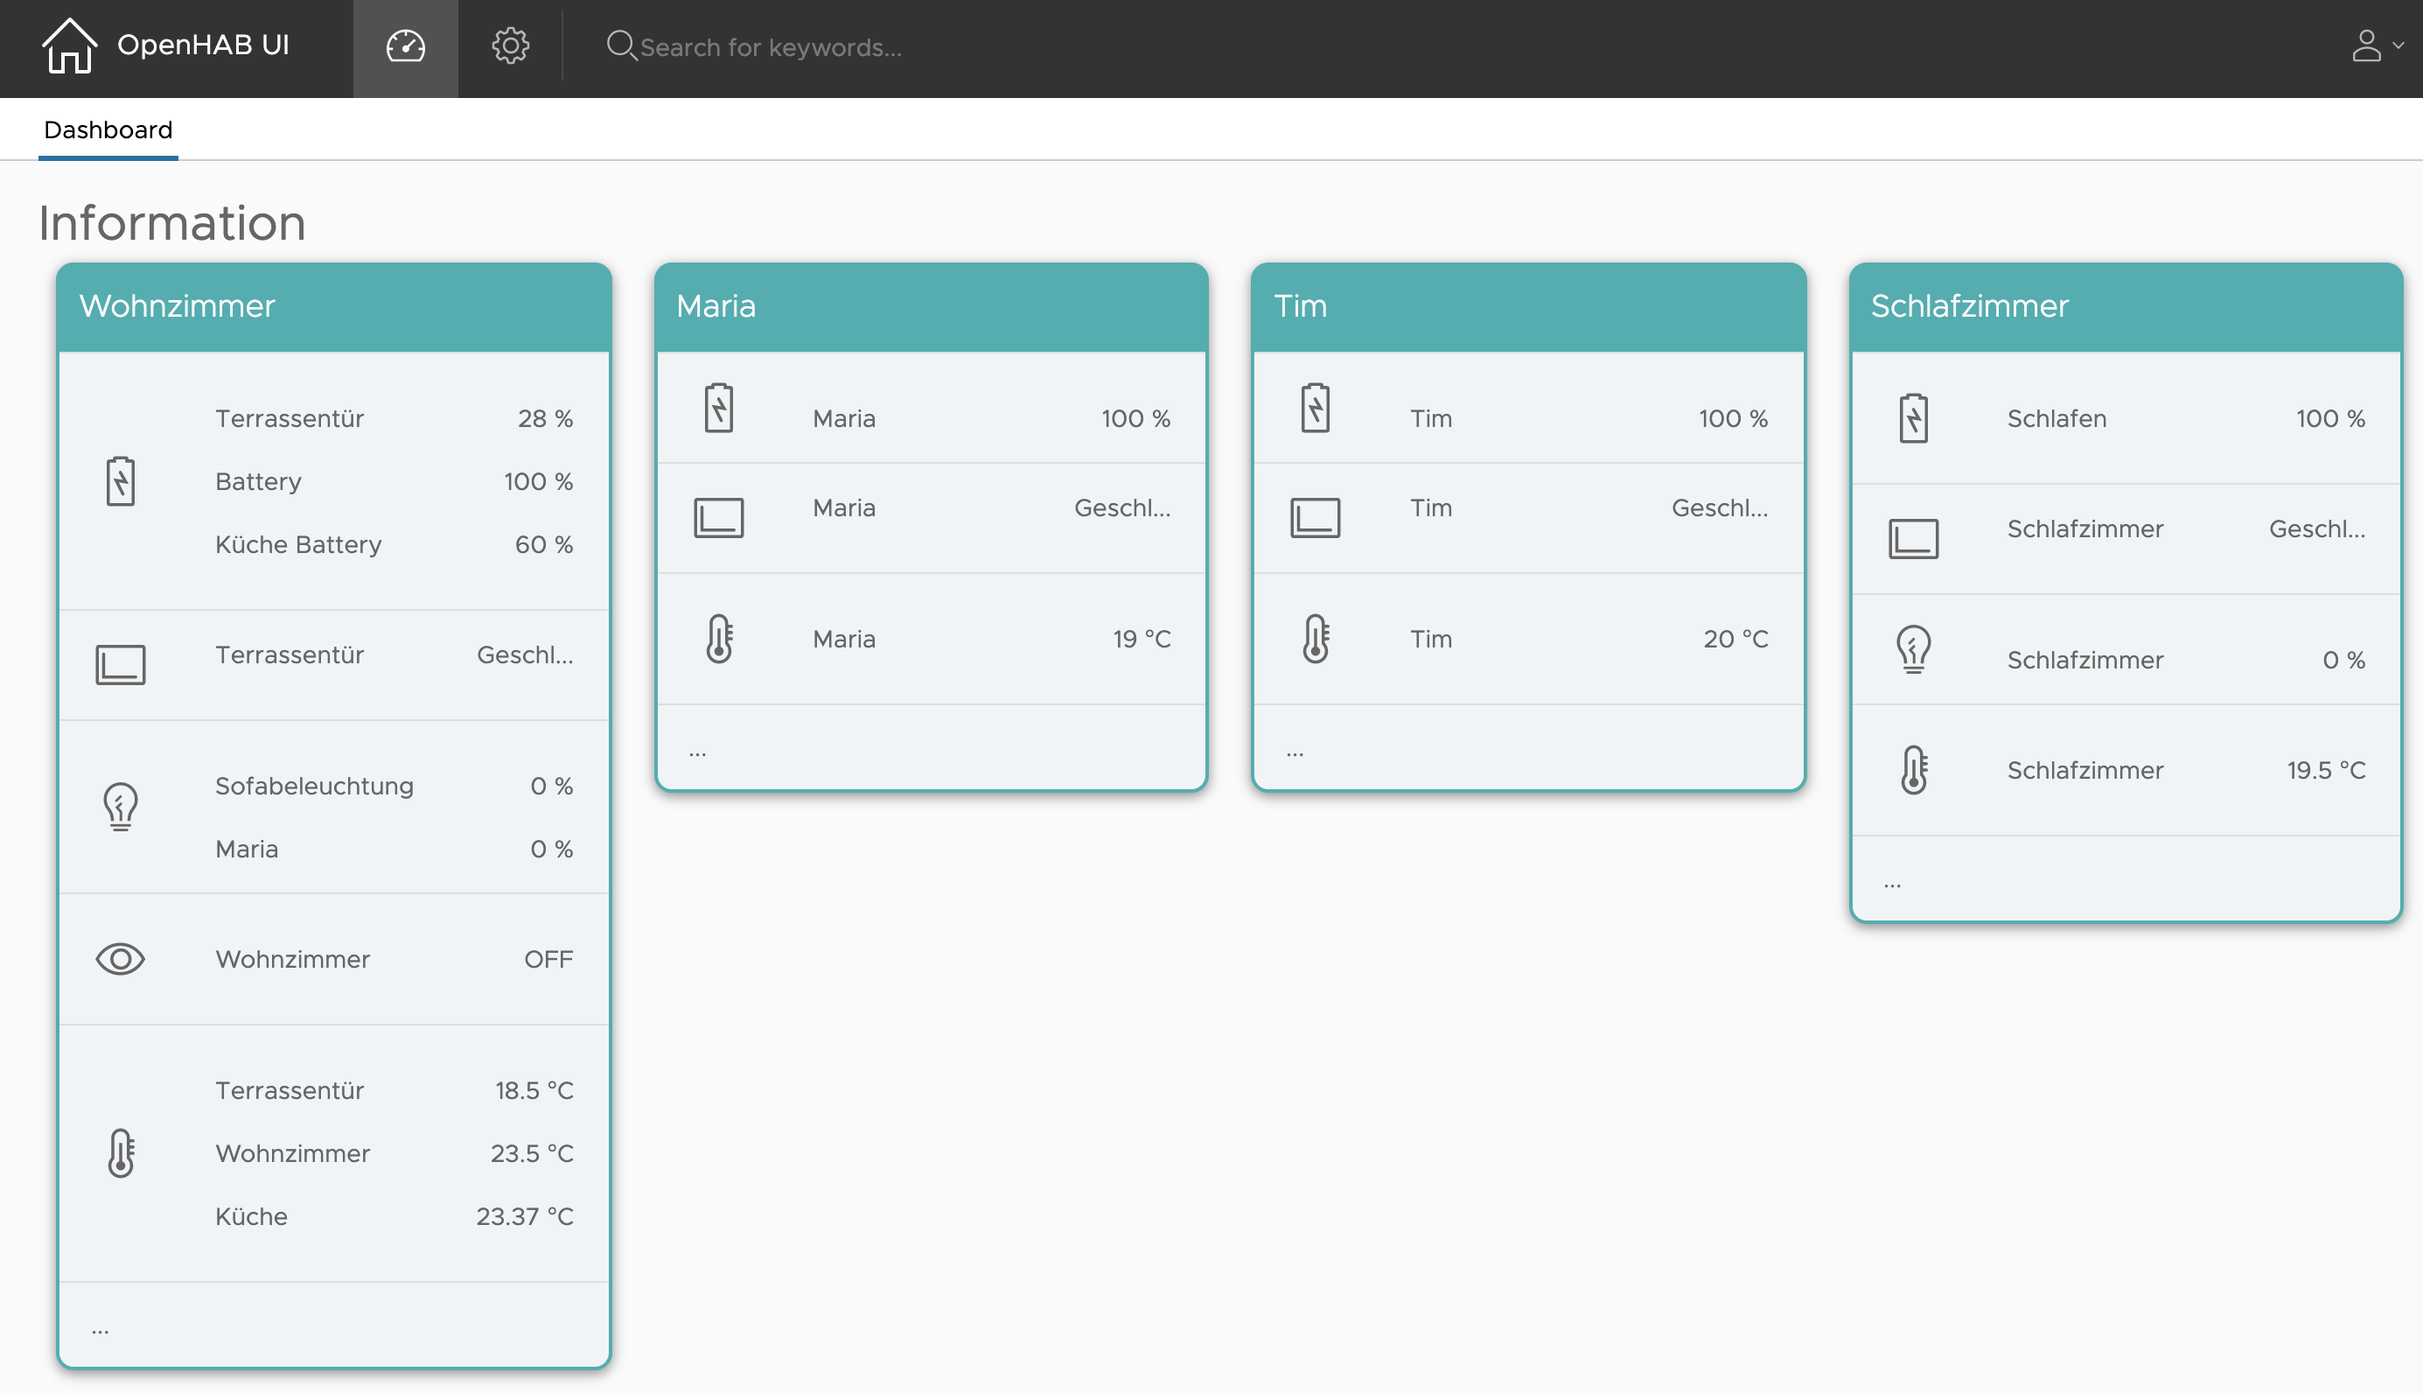
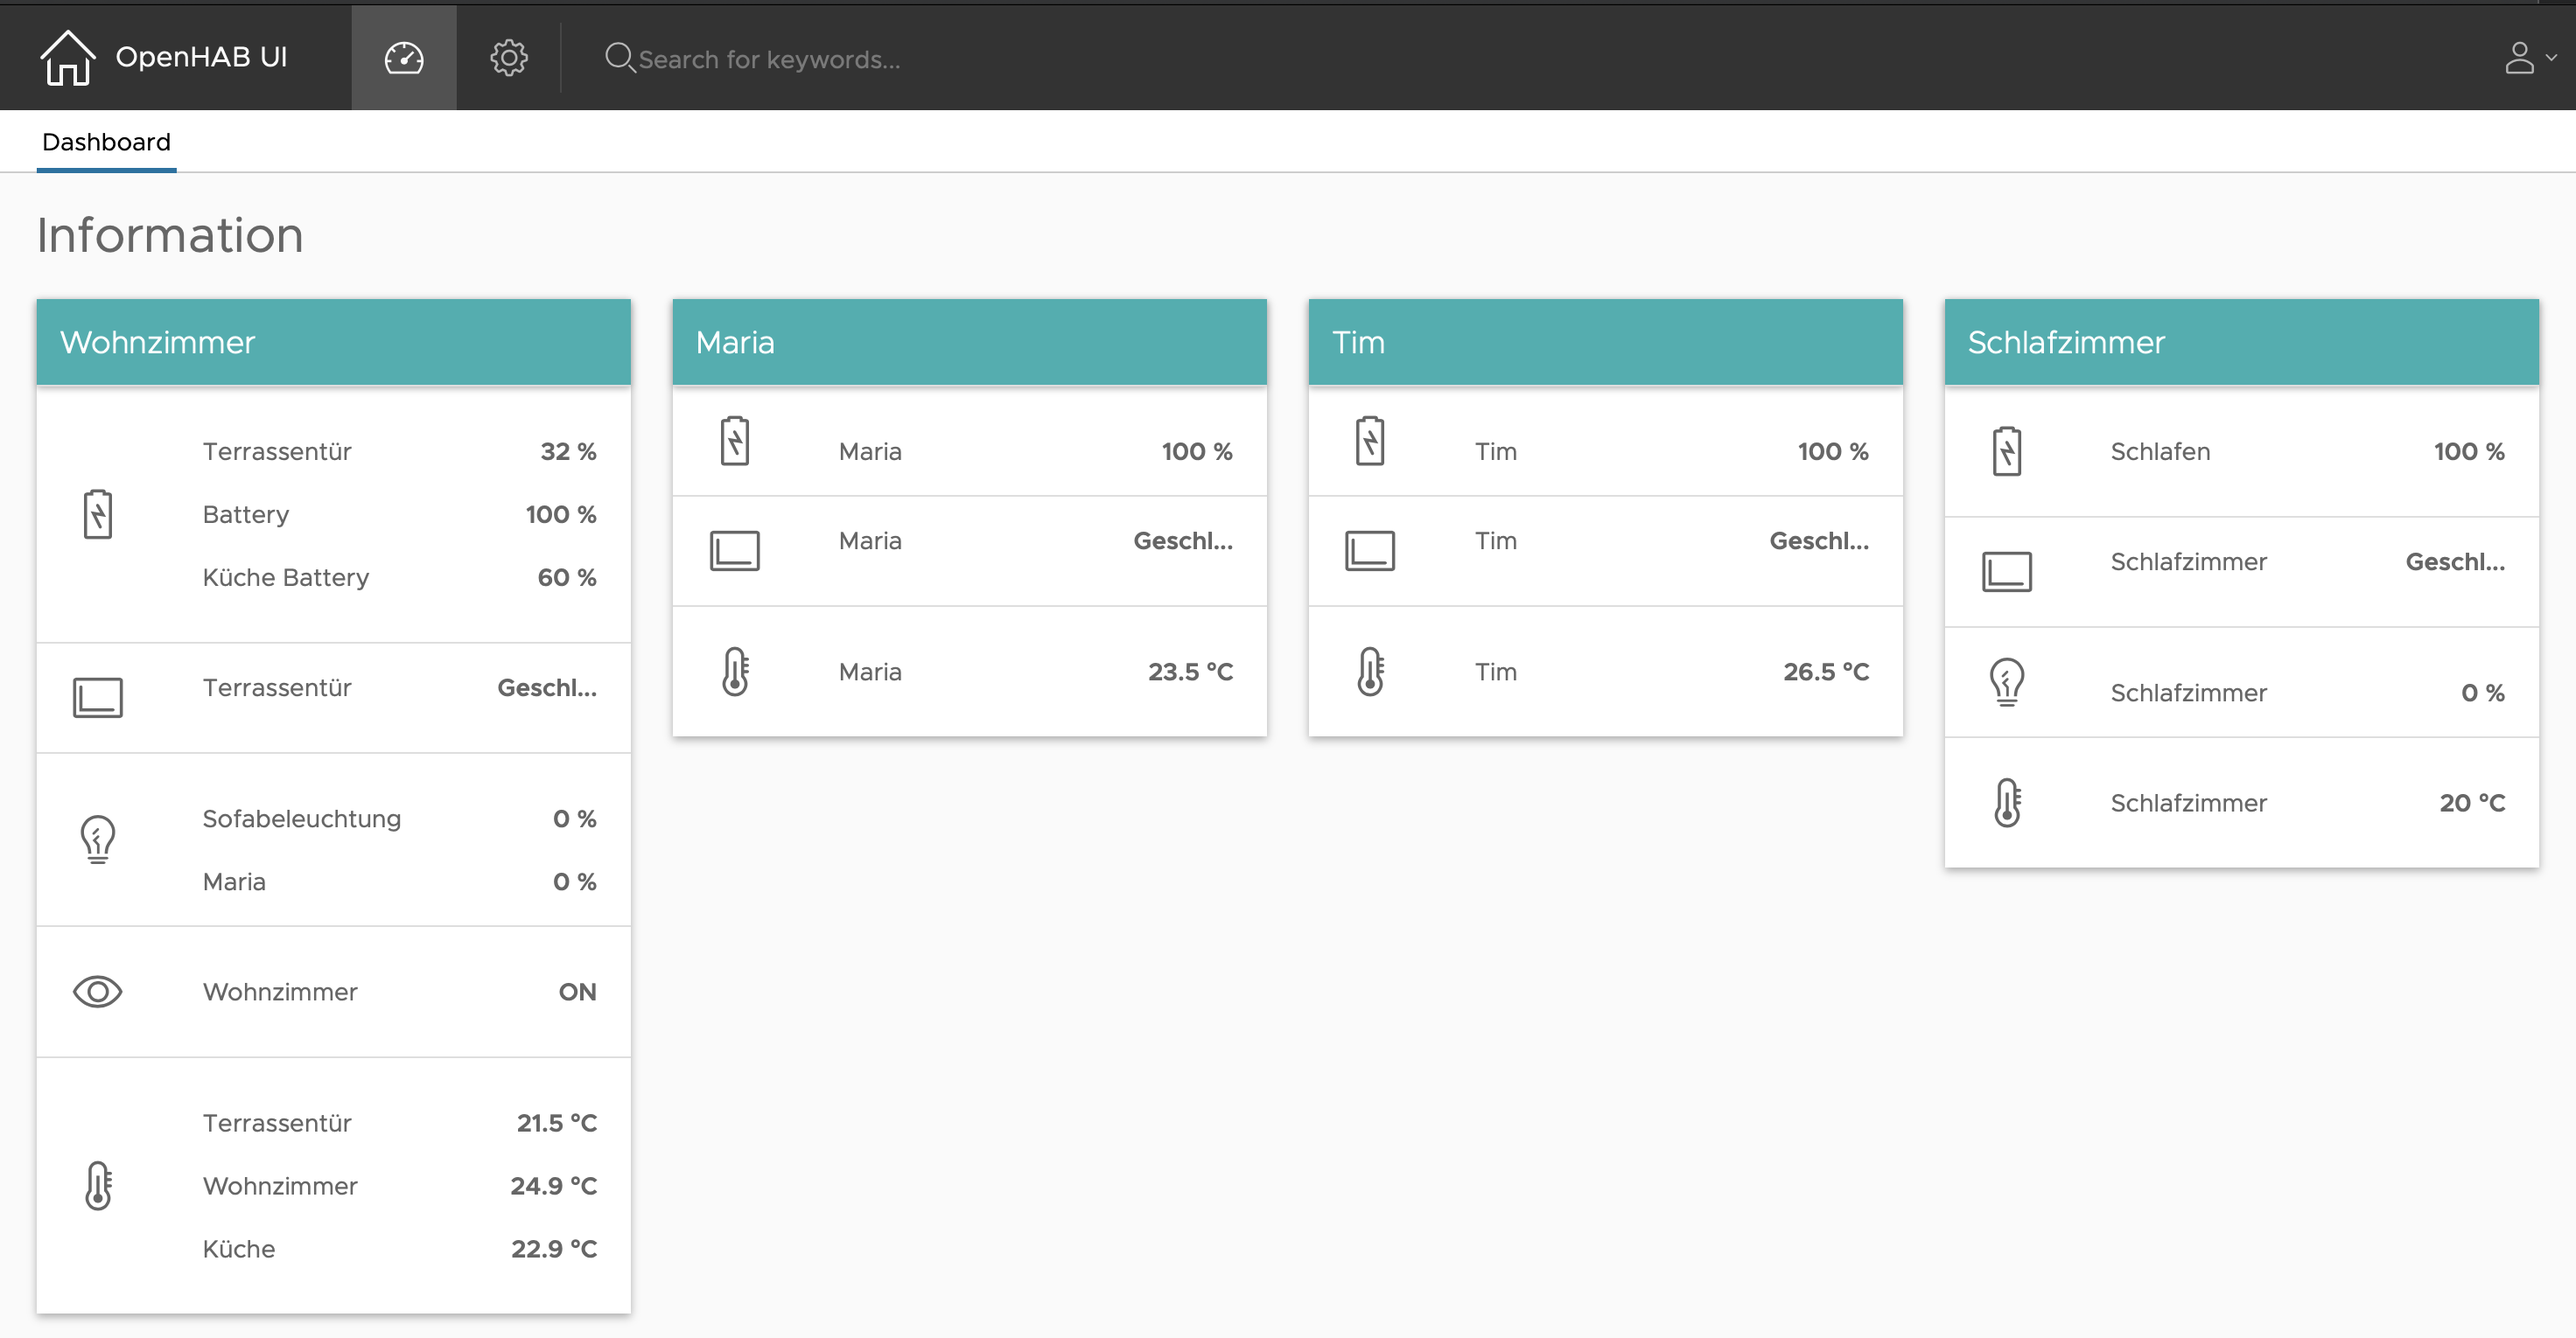
updated small changes in design

diff --git a/src/app/components/dashboard/roombox/roombox.component.ts b/src/app/components/dashboard/roombox/roombox.component.ts
@@ -6,7 +6,7 @@ import { AppComponent } from 'src/app/app.component';
 @Component({
   selector: 'app-roombox',
   templateUrl: './roombox.component.html',
-  styleUrls: ['./roombox.component.css']
+  styleUrls: ['./roombox2.component.css']
 })
 export class RoomboxComponent implements OnInit {
   @Input() shape: string;
@@ -22,35 +22,38 @@ export class RoomboxComponent implements OnInit {
   }
 
   ngOnChanges() {
-    // check battery
-    this.data.filter(i => i.category == "battery").forEach(item => {
-      var threshold = this.dataTypes.filter(t => t.category == "battery" && item.groupNames.includes(t.name))[0].warningThreshold;
-      if (!threshold) {
-        threshold = 0;
+    if (this.data) {
+      // check battery
+      this.data.filter(i => i.category == "battery").forEach(item => {
+        var threshold = this.dataTypes.filter(t => t.category == "battery" && item.groupNames.includes(t.name))[0].warningThreshold;
+        if (!threshold) {
+          threshold = 0;
+        }
+        if (Number.parseInt(item.state) < threshold) {
+          this.batteryWarning = true;
+        }
+      });
+      // refine item transformedState 
+      this.data.forEach(item =>{
+        if (!item.transformedState) {
+          item.transformedState = item.state;
+        }
+        if (item.transformedState.length > 8) {
+          item.transformedState = item.transformedState.substr(0, 6)+"...";
+        }
+        if (item.unit) {
+          item.transformedState = `${item.transformedState} ${item.unit}`;
+        }
+      });
+      // only unique Categories for UI
+      this.categories = [...new Set(this.data.map(d => d.category))].sort();
+      // replace item labels for UI (maybe wrong place here!?)
+      this.dataTypes.forEach(dataType => {
+        if (dataType.replaceInItemLabel) {
+          dataType.replaceInItemLabel.forEach(label => this.data.forEach(item => item.label = item.label.replace(label, '')));
+        }
+      });
       }
-      if (Number.parseInt(item.state) < threshold) {
-        this.batteryWarning = true;
-      }
-    });
-    // refine item transformedState 
-    this.data.forEach(item =>{
-      if (!item.transformedState) {
-        item.transformedState = item.state;
-      }
-      if (item.transformedState.length > 8) {
-        item.transformedState = item.transformedState.substr(0, 6)+"...";
-      }
-      if (item.unit) {
-        item.transformedState = `${item.transformedState} ${item.unit}`;
-      }
-    });
-    // only unique Categories for UI
-    this.categories = [...new Set(this.data.map(d => d.category))].sort();
-    // replace item labels for UI (maybe wrong place here!?)
-    this.dataTypes.forEach(dataType => {
-      if (dataType.replaceInItemLabel) {
-        dataType.replaceInItemLabel.forEach(label => this.data.forEach(item => item.label = item.label.replace(label, '')));
-      }
-    });
-  }
+    }
+    
 }

diff --git a/src/app/components/dashboard/roombox/roombox2.component.css b/src/app/components/dashboard/roombox/roombox2.component.css
@@ -1,0 +1,24 @@
+.container {
+    background-color: rgb(240, 244, 246);
+    border-color: #28afb0;
+    border-width: 0px;
+    border-radius: 0px;
+    -webkit-box-shadow: 0 2px 5px 0px rgb(171, 171, 171);
+    -moz-box-shadow: 0 2px 5px 0px rgb(171, 171, 171);
+    box-shadow: 0 2px 5px 0px  rgb(171, 171, 171);
+    background-color: white;
+}
+
+.header {
+    height: 2.5rem;
+    border-radius: 0px 0px 0px 0px;
+    background-color: #28afb0;
+    color: white;
+    -webkit-box-shadow: 0 1px 4px 0px rgb(171, 171, 171);
+    -moz-box-shadow: 0 1px 4px 0px rgb(171, 171, 171);
+    box-shadow: 0 1px 4px 0px  rgb(171, 171, 171);
+}
+
+div.card-header.header {
+    padding: 13px !important;
+}

diff --git a/src/app/components/dashboard/roombox/roombox.component.html b/src/app/components/dashboard/roombox/roombox.component.html
@@ -30,9 +30,6 @@
             </tr>
         </table>
     </div>
-    <div class="card-footer">
-        ...
-    </div>
 </div>
 
 

diff --git a/src/styles.css b/src/styles.css
@@ -1,4 +1,1 @@
 /* You can add global styles to this file, and also import other style files */
-.jh-header {
-    font-size: 2em;
-}

diff --git a/src/app/pages/dashboard/dashboard.component.css b/src/app/pages/dashboard/dashboard.component.css
@@ -1,0 +1,3 @@
+.jh-header {
+    font-size: 2em;
+}
